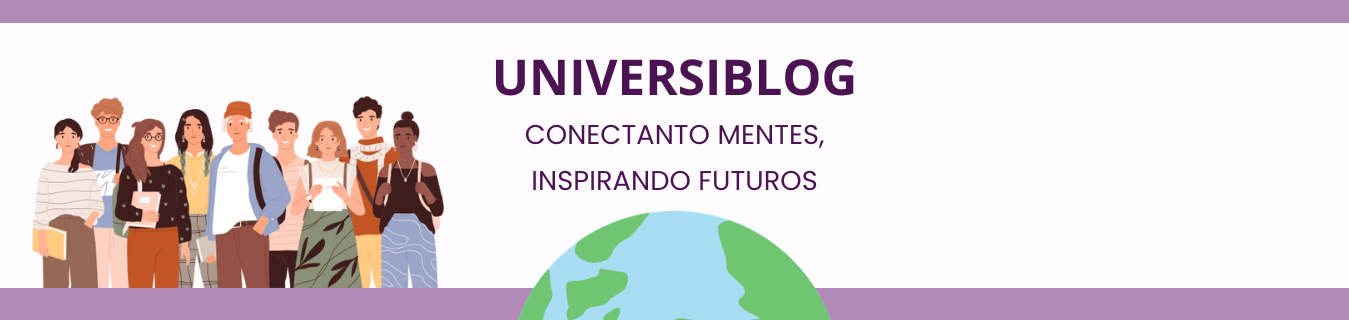
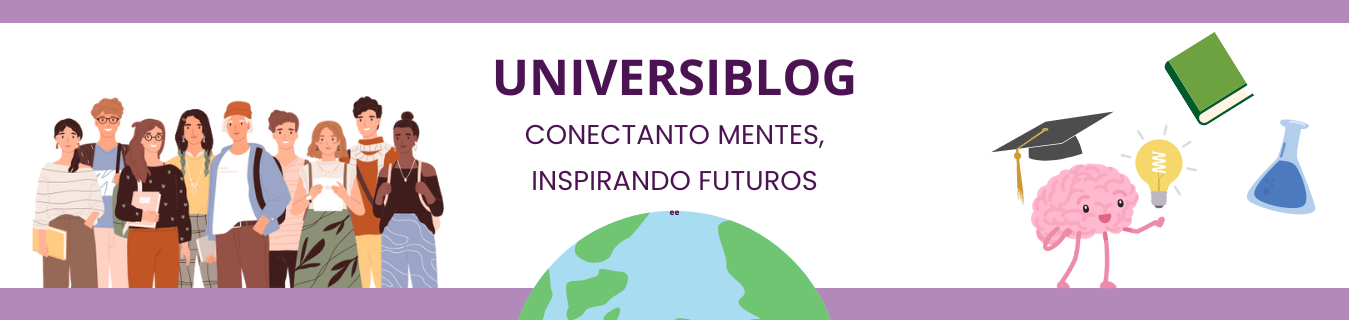
INDEX FINALIZADO

Changed region(s): [[0.7161, 0.3438, 0.9029, 0.9062], [0.8406, 0.0938, 0.934, 0.4062], [0.9029, 0.375, 0.9963, 0.6875]]

diff --git a/css/css.css b/css/css.css
@@ -431,6 +431,16 @@ section {
     justify-content: space-around;
     margin: 2em 0;
   }
+  .p-format{
+    margin: 2em 9em;
+
+  }
+
+  .p-format2{
+    margin: 1em 6em;
+    font-size: 18px;
+
+  }
 
   .feature {
     flex: 1;
@@ -439,7 +449,8 @@ section {
     background-color: #fff;
     box-shadow: 0 0 10px rgba(0, 0, 0, 0.1);
     border-radius: 8px;
-    margin: 0 1em;
+    margin: 0 4em;
+   font-size: 8px;
   }
 
   .content {

diff --git a/css/h&f.css b/css/h&f.css
@@ -1,0 +1,9 @@
+.navbar-container{
+    display: flex;
+	text-align: right;
+}
+.navbar-brand{
+    font-family:Poppins-regular ;
+    size: 20px;
+
+}

diff --git a/index.php b/index.php
@@ -6,36 +6,86 @@
     <link rel="preconnect" href="https://fonts.googleapis.com">
     <link rel="preconnect" href="https://fonts.gstatic.com" crossorigin>
     <link href="https://fonts.googleapis.com/css2?family=Staatliches&display=swap" rel="stylesheet">
+    <link rel="stylesheet" href="css/h&f.css">
     <link rel="stylesheet" href="css/css.css">
     <link rel="stylesheet" href="fuentes/font.css">
+    <link href="https://cdn.jsdelivr.net/npm/bootstrap@5.3.2/dist/css/bootstrap.min.css" rel="stylesheet" integrity="sha384-T3c6CoIi6uLrA9TneNEoa7RxnatzjcDSCmG1MXxSR1GAsXEV/Dwwykc2MPK8M2HN" crossorigin="anonymous">
+
     <title>Blog Universitario</title>
 </head>
 <body>
-    <header class="header">
-        <h1 class="logo"><a href="index.php">Universiblog &nbsp<span>Tu Portal Informativo</span></a></h1>
-        <ul class="main-nav">
-            <li><a href="index.php">Inicio</a></li>
-            <li><a href="consejos.php">Consejos</a></li>
-            <li><a href="evaluacion_profes.php">Evaluaciones</a></li>
-            <li><a href="horarios.php">Horarios</a></li>
-            <li><a href="resenha_uni.php">Reseña</a></li>
-            <li><a href="test_vocacional.php">Test</a></li>
-            <li><a href="nosotros.php">Nosotros</a></li>
-            <li><a href="registro.php">Registro</a></li>
-        </ul>
-    </header> 
+    <!-----------HEADER----------->
+<header  th:fragment="header" class="header" >
+
+<nav class="navbar navbar-expand-lg navbar-dark "><div class="container-fluid">
+
+        <button
+            class="navbar-toggler"
+            type="button"
+            data-mdb-toggle="collapse"
+            data-mdb-target="#navbarSupportedContent"
+            aria-controls="navbarSupportedContent"
+            aria-expanded="false"
+            aria-label="Toggle navigation"
+            >
+            <i class="fas fa-bars"></i>
+        </button>
+        <!--Logo Imagen-->
+        <div class="collapse navbar-collapse" id="navbarSupportedContent">
+            <img th:src="@{/css/imagenes/Logo.png}" alt=""/>
+
+            <!--Titulo-->
+            <a href="index.php" class="navbar-brand">Universiblog</a>
+
+            <!--Opciones de la Página-->
+            <div class="navbar-container">
+                <ul class="navbar-nav me-auto mb-2 mb-lg-0">
+
+                <li class="nav-item">
+                    <a class="nav-link" href="index.php">Inicio</a>
+                </li>
+                <li class="nav-item">
+                    <a class="nav-link" href="consejos.php">Consejos</a>
+                </li>
+                <li class="nav-item">
+                    <a class="nav-link" href="evaluacion_profes.php">Evaluaciones</a>
+                </li>
+                <li class="nav-item">
+                    <a class="nav-link" href="horarios.php">Horarios</a>
+                </li>
+                <li class="nav-item">
+                    <a class="nav-link" href="resenha_uni.php">Reseña</a>
+                </li>
+                <li class="nav-item">
+                    <a class="nav-link" href="test_vocacional.php">Test</a>
+                </li>
+                <li class="nav-item">
+                    <a class="nav-link" href="nosotros.php">Nosotros</a>
+                </li>
+                
+                </ul>
+</div>
+        </div>
+
+
+    </div>
+    </div>
+</nav>
+
+
+</header>
+    <!-----------CONTENIDO----------->
 
     <img src="images/INDEX1.png" alt=""/>
-    <p>Bienvenido a nuestro rincón digital, donde la comunidad estudiantil se une, comparte y crece. 
+
+    <div></div>
+    <div class="p-format"><p style="font-size: 50px">¡Bienvenido a nuestro rincón digital!</p></div>
+    <div class="p-format2"><p>Donde la comunidad estudiantil se une, comparte y crece. 
         Haz de tu viaje universitario una experiencia excepcional con nosotros. ¡Descubre, conecta y 
-        avanza juntos!</p>
-    <section>
-        <div class="feature">
-            <h3 style="color: black;">Lee artículos escritos por estudiantes de distintas universidades del país,
-                con los que podrás aprender de sus experiencias en la universidad...
-            </h3>
-        </div>
-    </section>
+        avanza juntos! 
+    
+        </p></div>
+        
 
     <div class="image-block">
         <div class="image-container">
@@ -82,11 +132,16 @@
             </div>
         </div>
     </div>
+    <img src="images/BARRA.png" alt=""/><br>
 
-    <section>
-        <h2>Falta más texto</h2>
-        <p>más párrafo</p>
-    </section>
+    <div class="p-format2"><p>Lee artículos escritos por estudiantes de distintas universidades del país,
+                con los que podrás aprender de sus experiencias en la universidad..
+    
+        </p></div>
+   
+    <img src="images/NI1.png" alt=""/>
+
+    <!-----------FOOTER----------->
 
     <footer>
         <ul>
